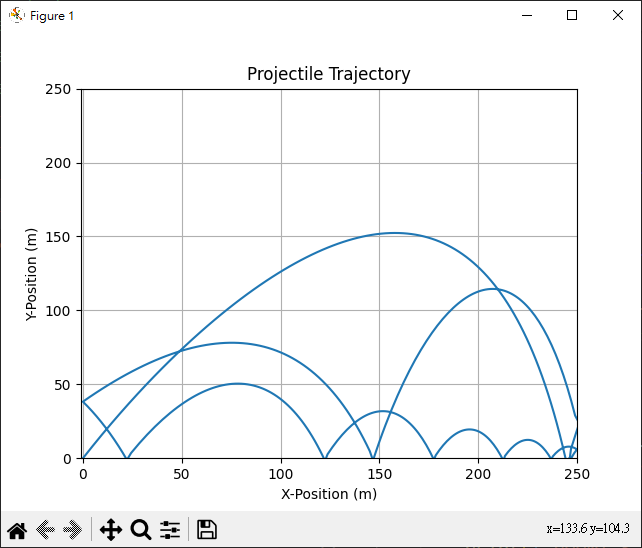
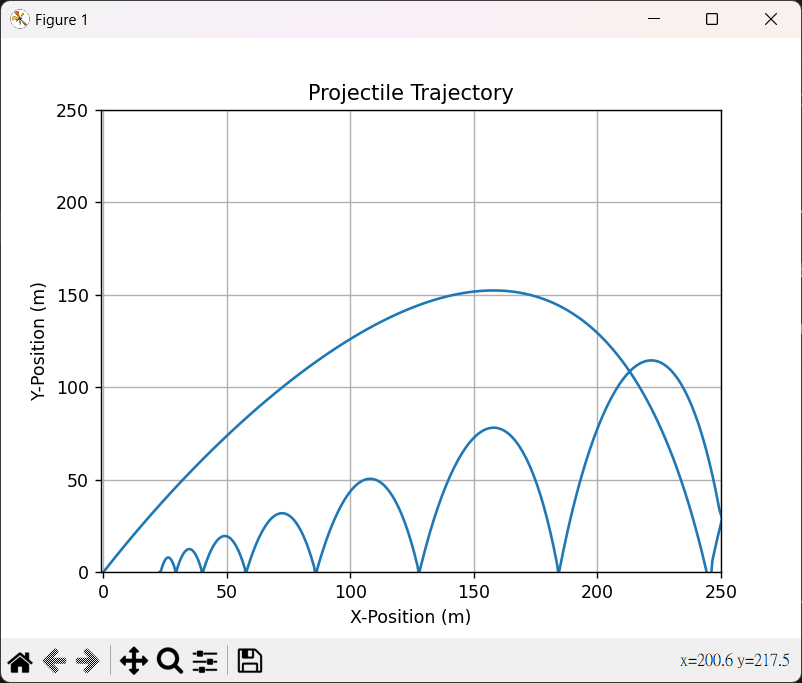
update

diff --git a/q4.py b/q4.py
@@ -47,9 +47,11 @@ class BORDERBOOM:
         if self.pos_x > self.y_border:
             self.pos_x = self.y_border
             self.v_x *= -0.7
+            self.v_y *= 0.7
 
         if self.pos_y < 0 :
             self.pos_y = 0
+            self.v_x *= 0.7
             self.v_y *= -0.7
 
         self.pos_x += self.v_x * self.dt

diff --git a/README.md b/README.md
@@ -324,7 +324,8 @@ class BORDERBOOM:
         return (self.pos_x, self.pos_y)
     
 if (__name__ == '__main__'):
-    borderboom1 = BORDERBOOM(500.0, 500.0, 1.0, 100.0, 30.0, 9.8, 0.1, 0.01)
+    borderboom1 = BORDERBOOM(250.0, 250.0, 1.0, 100.0, 60.0, 9.8, 0.1, 0.01)
+    #borderboom1 = BORDERBOOM(500.0, 500.0, 1.0, 100.0, 60.0, 9.8, 0.1, 0.01)
     x_log = [0]
     y_log = [0]
     time = 0
